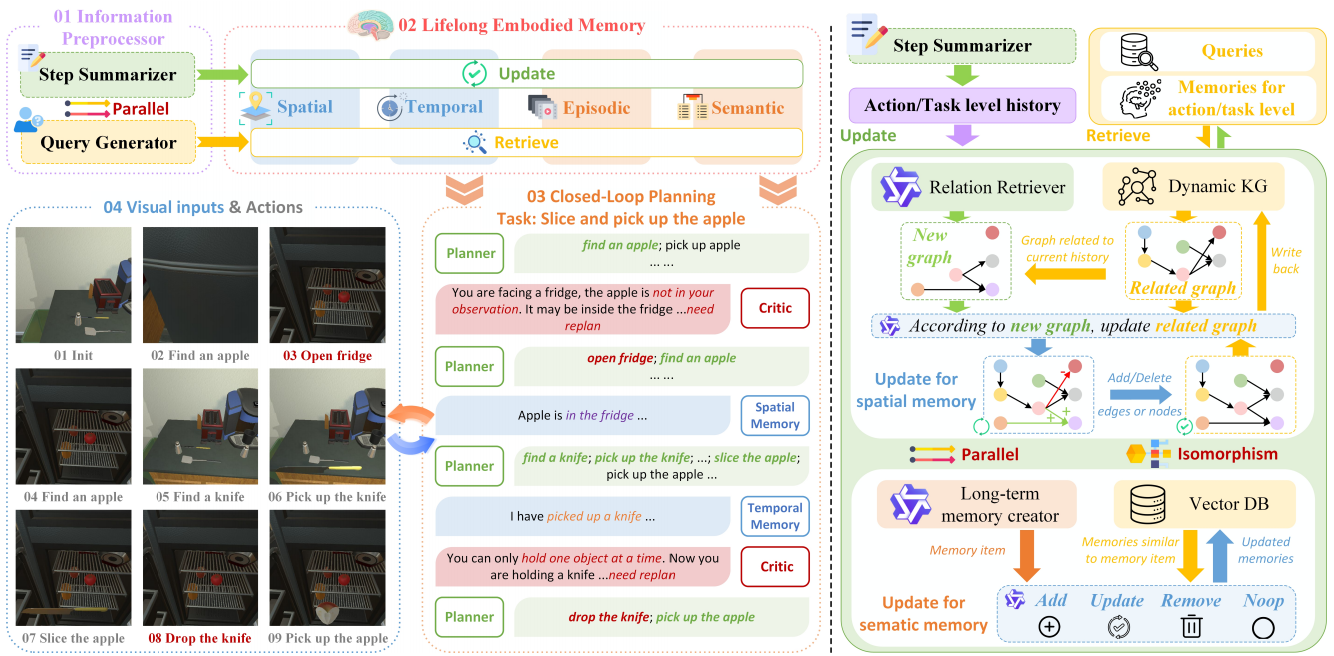
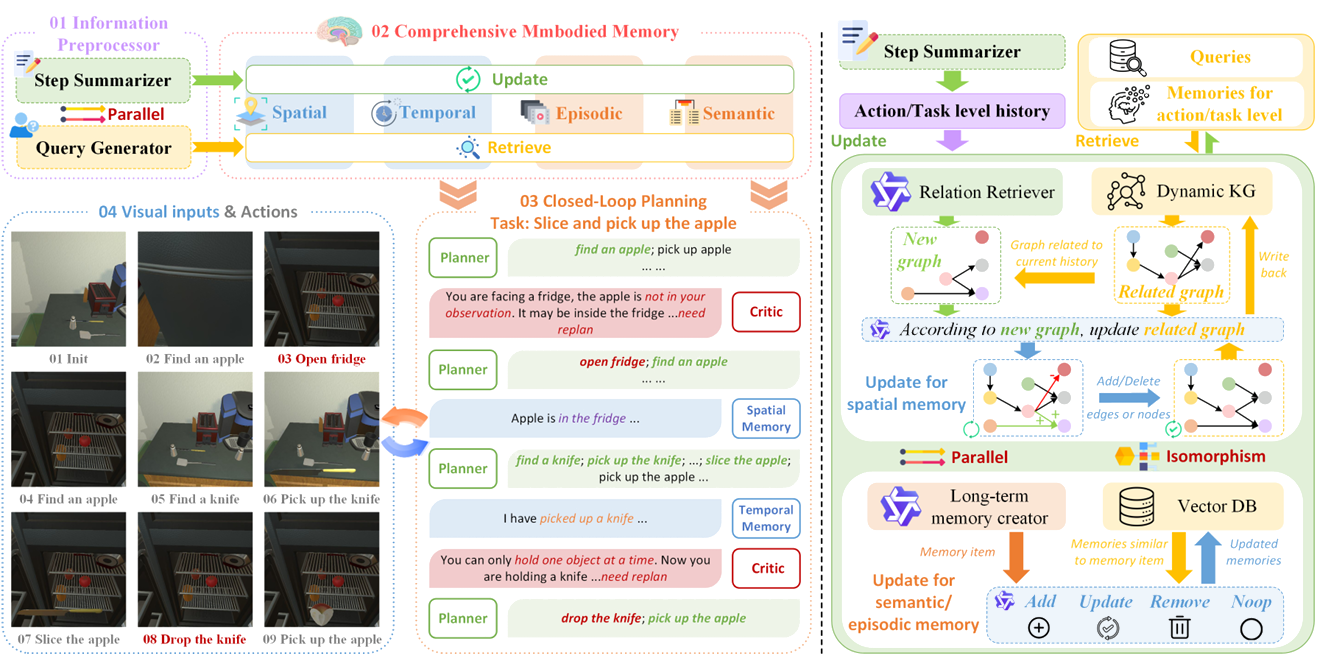
v1.3 更新作者列表 abstract内容 caption以及其注释

Changed region(s): [[0.0, 0.0, 1.0, 1.0]]

diff --git a/src/App.vue b/src/App.vue
@@ -23,10 +23,6 @@
         <span class="sup">1, *</span><span class="arthorName">, </span>
       </div>
       <div class="arthorNameContainer">
-        <span class="arthorName">Binbin Que</span>
-        <span class="sup">1, 7</span><span class="arthorName">, </span>
-      </div>
-      <div class="arthorNameContainer">
         <span class="arthorName">Zezhou Cui</span>
         <span class="sup">1, 3</span><span class="arthorName">, </span>
       </div>
@@ -44,7 +40,7 @@
       </div>
       <div class="arthorNameContainer">
         <span class="arthorName">Shuangyu Zhu</span>
-        <span class="sup">1, 5</span><span class="arthorName">, </span>
+        <span class="sup">1, 6</span><span class="arthorName">, </span>
       </div>
       <div class="arthorNameContainer">
         <span class="arthorName">Yimou Wu</span><span class="sup">3</span
@@ -59,6 +55,18 @@
         ><span class="arthorName">, </span>
       </div>
       <div class="arthorNameContainer">
+        <span class="arthorName">Yuyuan Yang</span><span class="sup">3</span
+        ><span class="arthorName">, </span>
+      </div>
+      <div class="arthorNameContainer">
+        <span class="arthorName">Junyuan Tan</span><span class="sup">1</span
+        ><span class="arthorName">, </span>
+      </div>
+      <div class="arthorNameContainer">
+        <span class="arthorName">Zhenglin Wan</span><span class="sup">5</span
+        ><span class="arthorName">, </span>
+      </div>
+      <div class="arthorNameContainer">
         <span class="arthorName">Zhen Li</span><span class="sup">1, 2</span
         ><span class="arthorName">, </span>
       </div>
@@ -68,10 +76,10 @@
       </div>
       <div class="arthorNameContainer">
         <span class="arthorName">Yiming Zhao</span
-        ><span class="sup">1, 6, 7</span><span class="arthorName">, </span>
+        ><span class="sup">1, 7, 8</span><span class="arthorName">, </span>
       </div>
       <div class="arthorNameContainer">
-        <span class="arthorName">Yatong Han</span><span class="sup">1, 7</span>
+        <span class="arthorName">Yatong Han</span><span class="sup">1, 8</span>
       </div>
     </div>
     <div class="expression">
@@ -101,16 +109,20 @@
       </div>
       <div class="universityContainer">
         <span class="sup"> 5 </span
+        ><span class="universityName">Nanyang Technological University </span>
+      </div>
+      <div class="universityContainer">
+        <span class="sup"> 6 </span
         ><span class="universityName"
           >Harbin Institute of Technology, Shenzhen
         </span>
       </div>
       <div class="universityContainer">
-        <span class="sup"> 6 </span
+        <span class="sup"> 7 </span
         ><span class="universityName">Harbin Engineering University </span>
       </div>
       <div class="universityContainer">
-        <span class="sup"> 7 </span
+        <span class="sup"> 8 </span
         ><span class="universityName">Infused Synapse AI </span>
       </div>
     </div>
@@ -153,29 +165,22 @@
   <div class="articleMainBodyContainer contentContainer">
     <div class="contentMainTitle">Abstract</div>
     <div class="content">
-      We present RoboMemory, a brain-inspired multi-memory framework for
-      lifelong learning in physical embodied systems, addressing critical
-      challenges in real-world environments: continuous learning, multi-module
-      memory latency, task correlation capture, and infinite-loop mitigation in
-      closed-loop planning. Grounded in cognitive neuroscience, it integrates
-      four core modules: the Information Preprocessor (thalamus-like), the
-      Lifelong Embodied Memory System (hippocampus-like), the Closed-Loop
-      Planning Module (prefrontal lobe-like), and the Low-Level Executer
-      (cerebellum-like) to enable long-term planning and cumulative learning.
-      The Lifelong Embodied Memory System, central to the framework, alleviates
-      inference speed issues in complex memory frameworks via parallelized
-      updates/retrieval across Spatial, Temporal, Episodic, and Semantic
-      submodules. It incorporates a dynamic Knowledge Graph (KG) and consistent
-      architectural design to enhance memory consistency and scalability.
-      Evaluations on EmbodiedBench show RoboMemory outperforms the open-source
-      baseline (Qwen2.5-VL-72B-Ins) by 25% in average success rate and surpasses
-      the closedsource State-of-the-Art (SOTA) (Claude3.5-Sonnet) by 5%,
-      establishing new SOTA. Ablation studies validate key components (critic,
-      spatial memory, longterm memory), while real-world deployment confirms its
-      lifelong learning capability with significantly improved success rates
-      across repeated tasks. RoboMemory alleviates high latency challenges with
-      scalability, serving as a foundational reference for integrating
-      multi-modal memory systems in physical robots.
+      Embodied agents face persistent challenges in real-world environments,
+      including partial observability, limited spatial reasoning, and
+      high-latency multi-memory integration. We present RoboMemory, a
+      brain-inspired framework that unifies Spatial, Temporal, Episodic, and
+      Semantic memory under a parallelized archi tecture for efficient
+      long-horizon planning and interactive environmental learn ing. A dynamic
+      spatial knowledge graph (KG) ensures scalable and consistent memory
+      updates, while a closed-loop planner with a critic module supports
+      adaptive decision-making in dynamic settings. Experiments on EmbodiedBench
+      show that RoboMemory, built on Qwen2.5-VL-72B-Ins, improves average
+      success rates by 25% over its baseline and exceeds the closed-source
+      state-of-the-art (SOTA) Gemini-1.5-Pro by 3%. Real-world trials further
+      confirm its capacity for cumulative learning, with performance improving
+      across repeated tasks. These results highlight RoboMemory as a scalable
+      foundation for memory-augmented embodied intelligence, bridging the gap
+      between cognitive neuroscience and robotic autonomy.
     </div>
 
     <!-- <div class="codeSpace">
@@ -193,7 +198,7 @@
   </div>
   <div class="articleMainBodyContainer contentContainer">
     <div class="contentImg contentImg1">
-      <img src="./assets/pic/fig1.png" alt="image" />
+      <img src="./assets/pic/fig1_og.png" alt="image" />
       <div class="introText">
         <span class="bold">Figure 1:</span> The brain-inspired architecture of
         the RoboMemory resembles the biological nervous system. It maps
@@ -207,17 +212,19 @@
     <div class="contentImg contentImg">
       <img src="./assets/pic/fig2.png" alt="image" />
       <div class="introText">
-        <span class="bold">Figure 2:</span> RoboMemory architecture with working
-        pipeline and memory mechanisms. (a) Left: The agent’s pipeline. Parallel
-        Step Summarizer and Query Generator in Information Processor (1)
-        generate updates/queries for Lifelong Embodied Memory (2). These
-        memories enable Closed-Loop Planning (3) for tasks like “slice and pick
-        up the apple”—the Planner generates plans, while the Critic and memories
-        adjust decisions via feedback from visual inputs/results (4). (b) Right:
-        Spatial and Semantic memories operate in parallel with isomorphic
-        updates. Internally, Spatial memory maintains a
-        relevance/similarity-updated KG, and Semantic memory manages a Vector DB
-        with analogous logic.
+        <span class="bold">Figure 2: RoboMemory architecture. </span>(a) Left:
+        Parallel Step Summarizer and Query Generator generate updates/queries
+        for Comprehensive Embodied Memory. These memories enable Closed Loop
+        Planning for tasks like “slice and pick up the apple”—the Planner
+        generates plans, while the Critic and memories adjust decisions via
+        feedback from visual inputs/results. (b) Right: Spatial memory maintains
+        a relevance/similarity-updated KG, and Semantic/Episodic memory manages
+        a Vector DB with analogous logic. Besides, Temporal memory is
+        implemented as a linear FIFO buffer that stores step-wise summaries
+        generated by the Step Summarizer. Together, S and Q provide a swift,
+        text-based interface between raw sensory data and provide basic
+        information in each iteration for RoboMemory’s Comprehensive Embodied
+        Memory System.
       </div>
     </div>
   </div>
@@ -284,10 +291,10 @@ a:hover {
   height: fit-content;
   padding: 5vmax 0;
 }
-.contentContainer:nth-child(even) {
+.contentContainer:nth-child(odd):not(:first-child) {
   background-color: #f0f0f0;
 }
-.contentContainer:nth-child(odd) {
+.contentContainer:nth-child(even) {
   background-color: #ffffff;
 }
 
